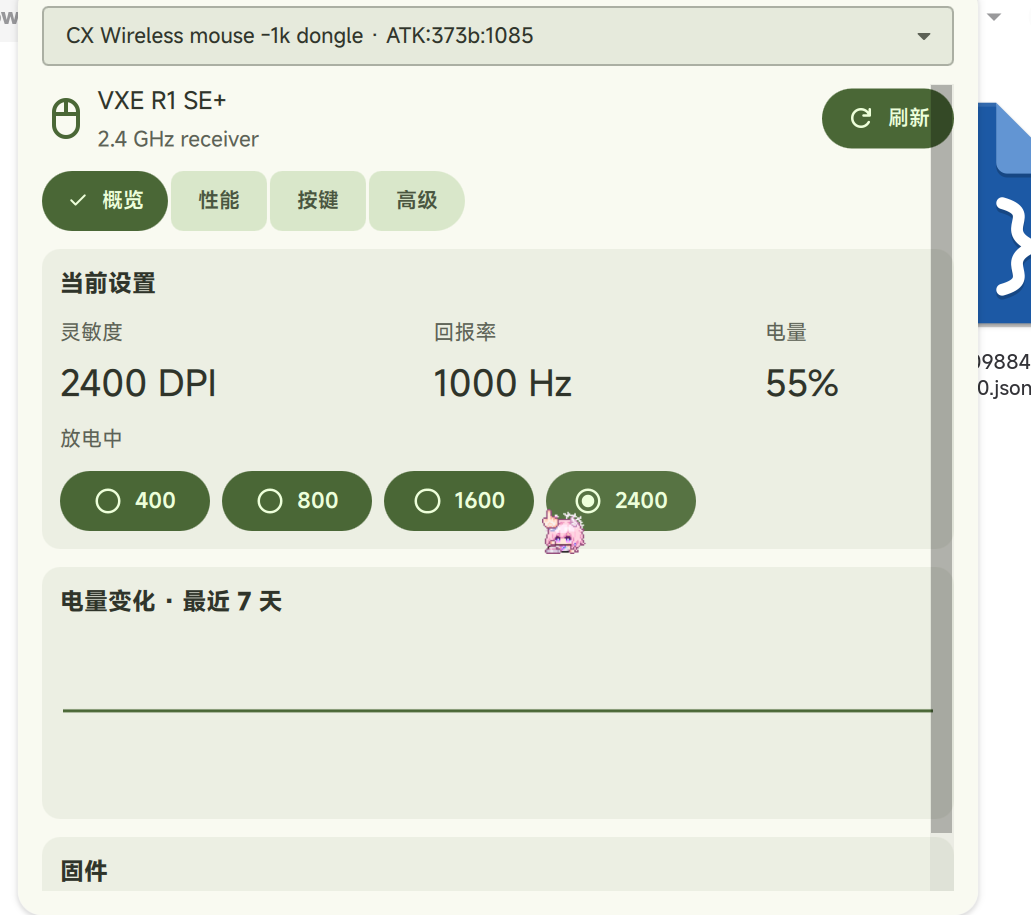
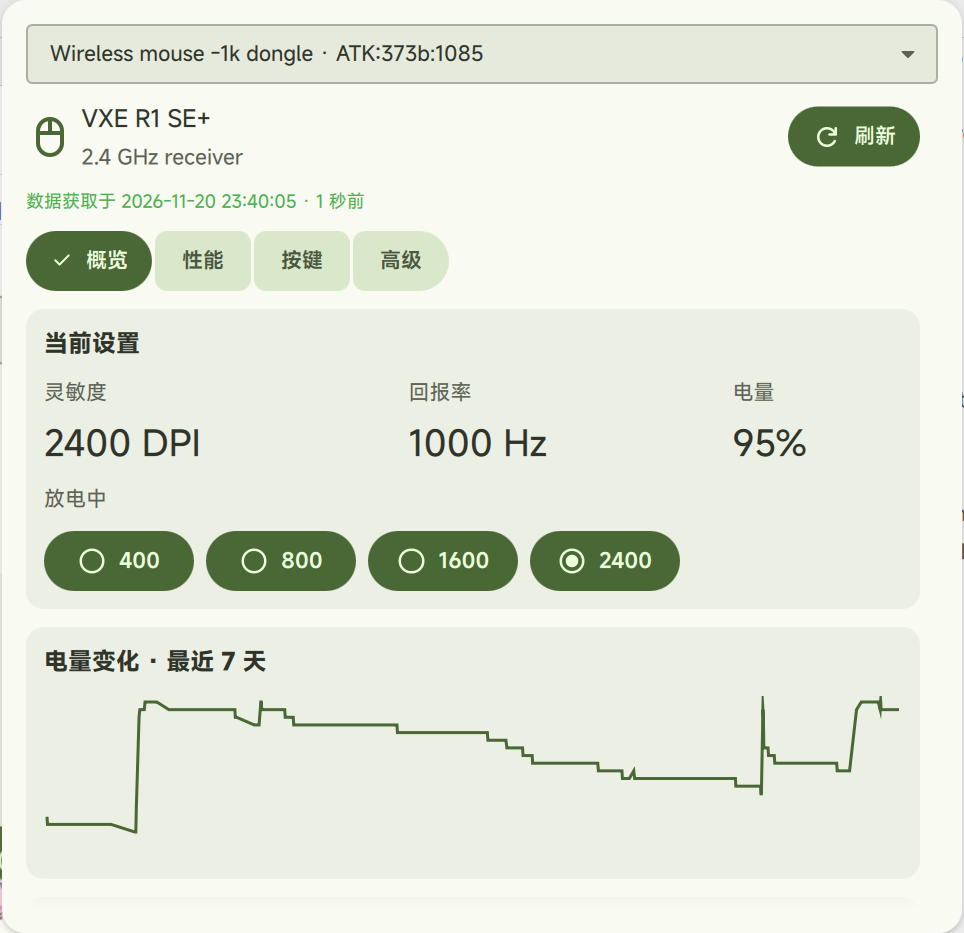
docs: update README preview screenshot

diff --git a/README.md b/README.md
@@ -66,4 +66,4 @@ To update an existing local installation, copy the QML/helper files and atomical
 
 AGPL-3.0-or-later. See [LICENSE](LICENSE) and [THIRD_PARTY_NOTICES.md](THIRD_PARTY_NOTICES.md). Dependency license texts are included in the installable plugin.
 
-Developed with AI assistance. The preview is a user-provided screenshot of the plugin, not a new desktop capture.
+Developed with AI assistance.
